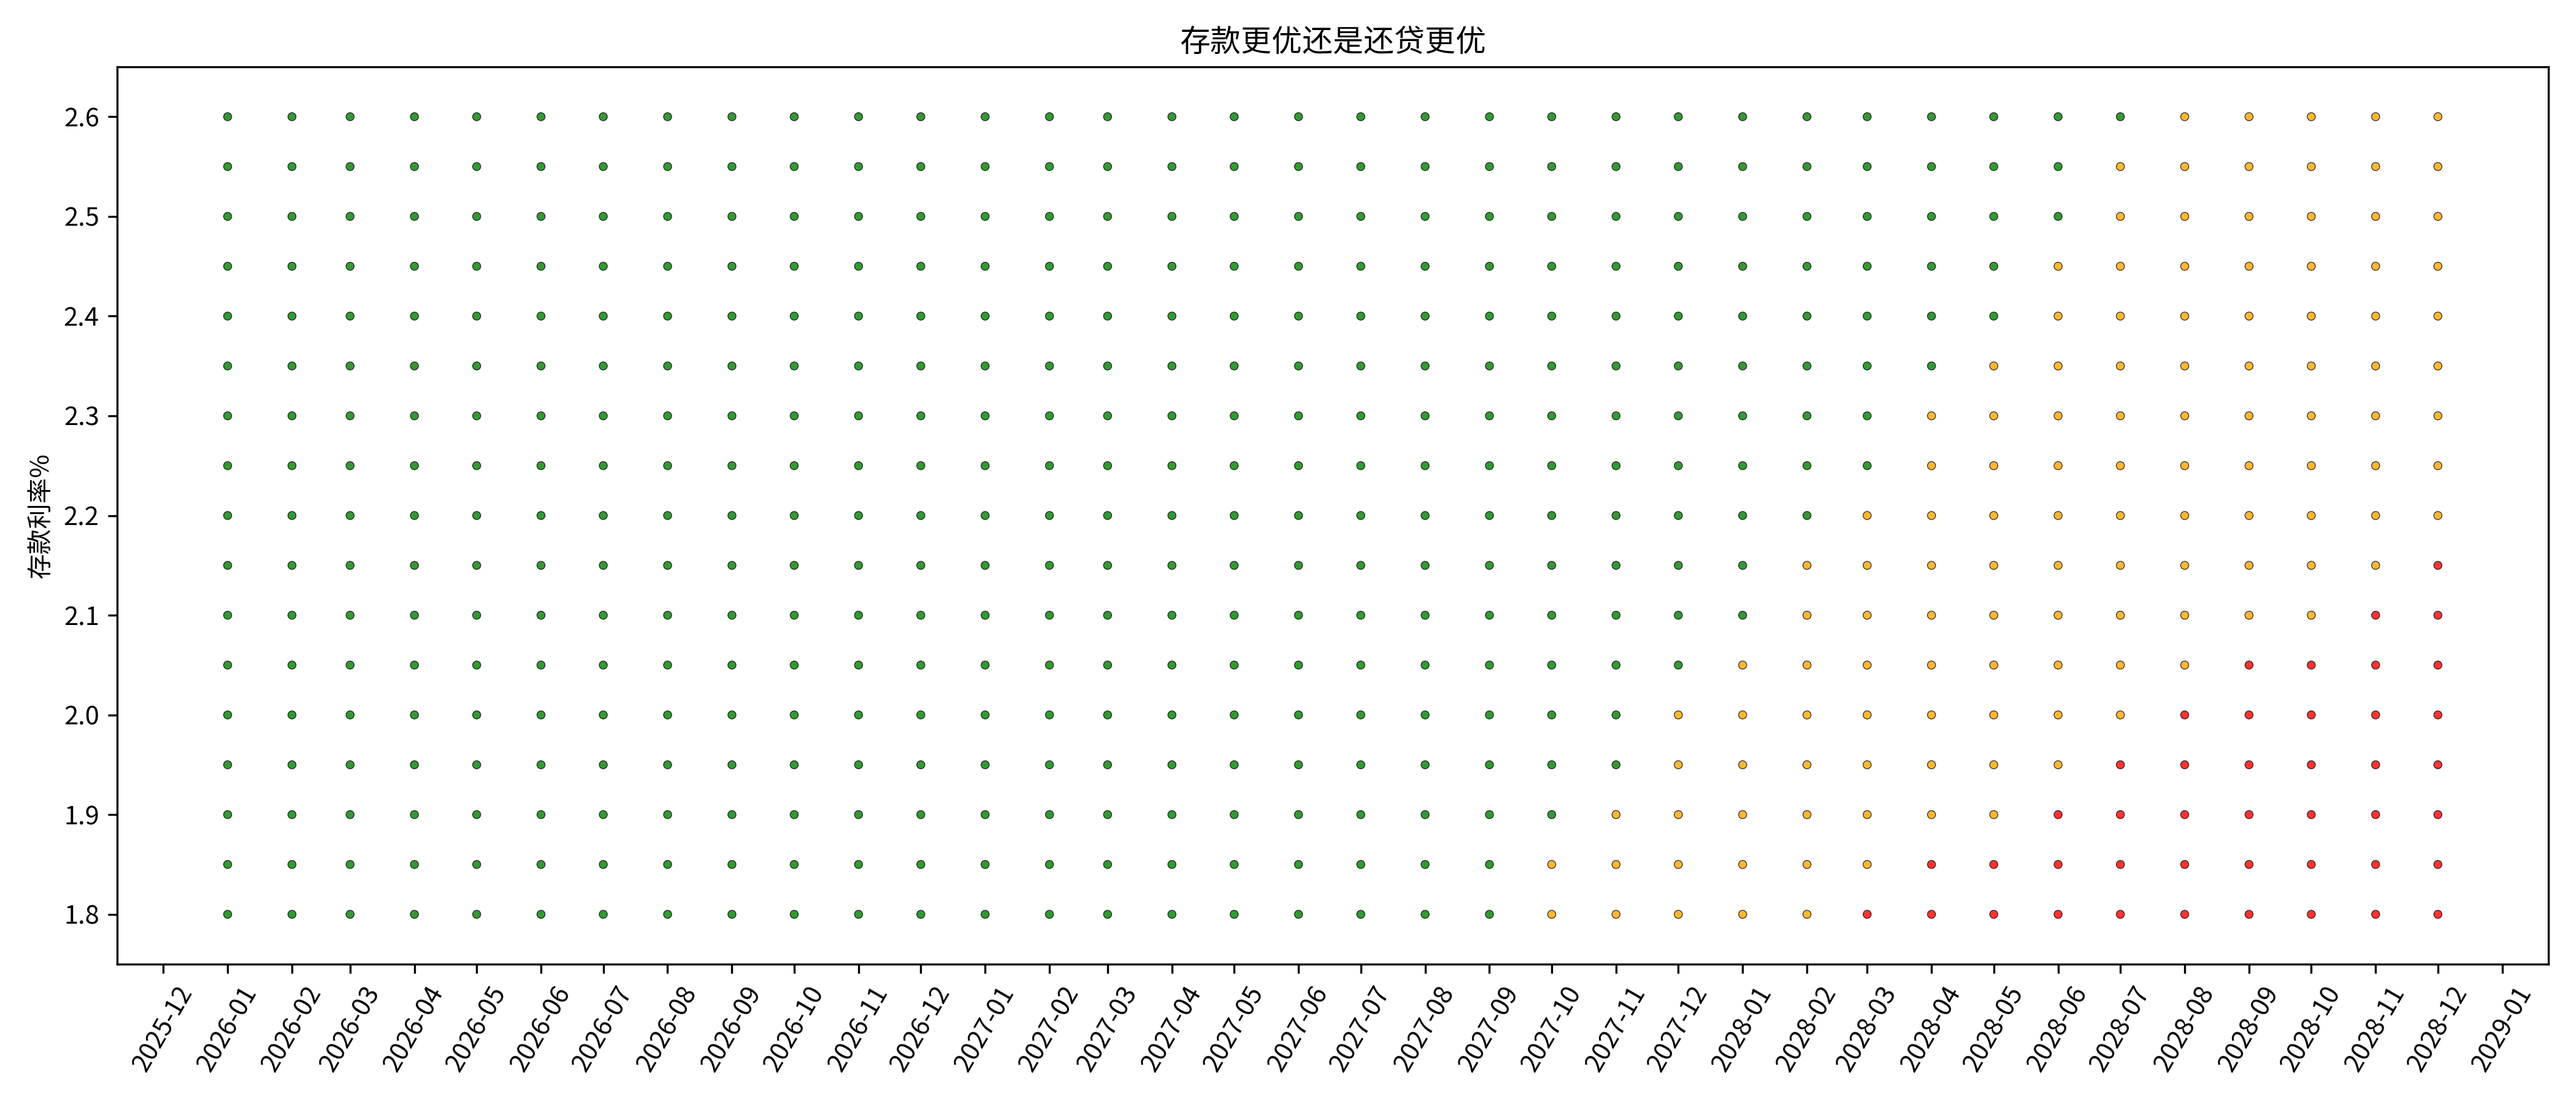
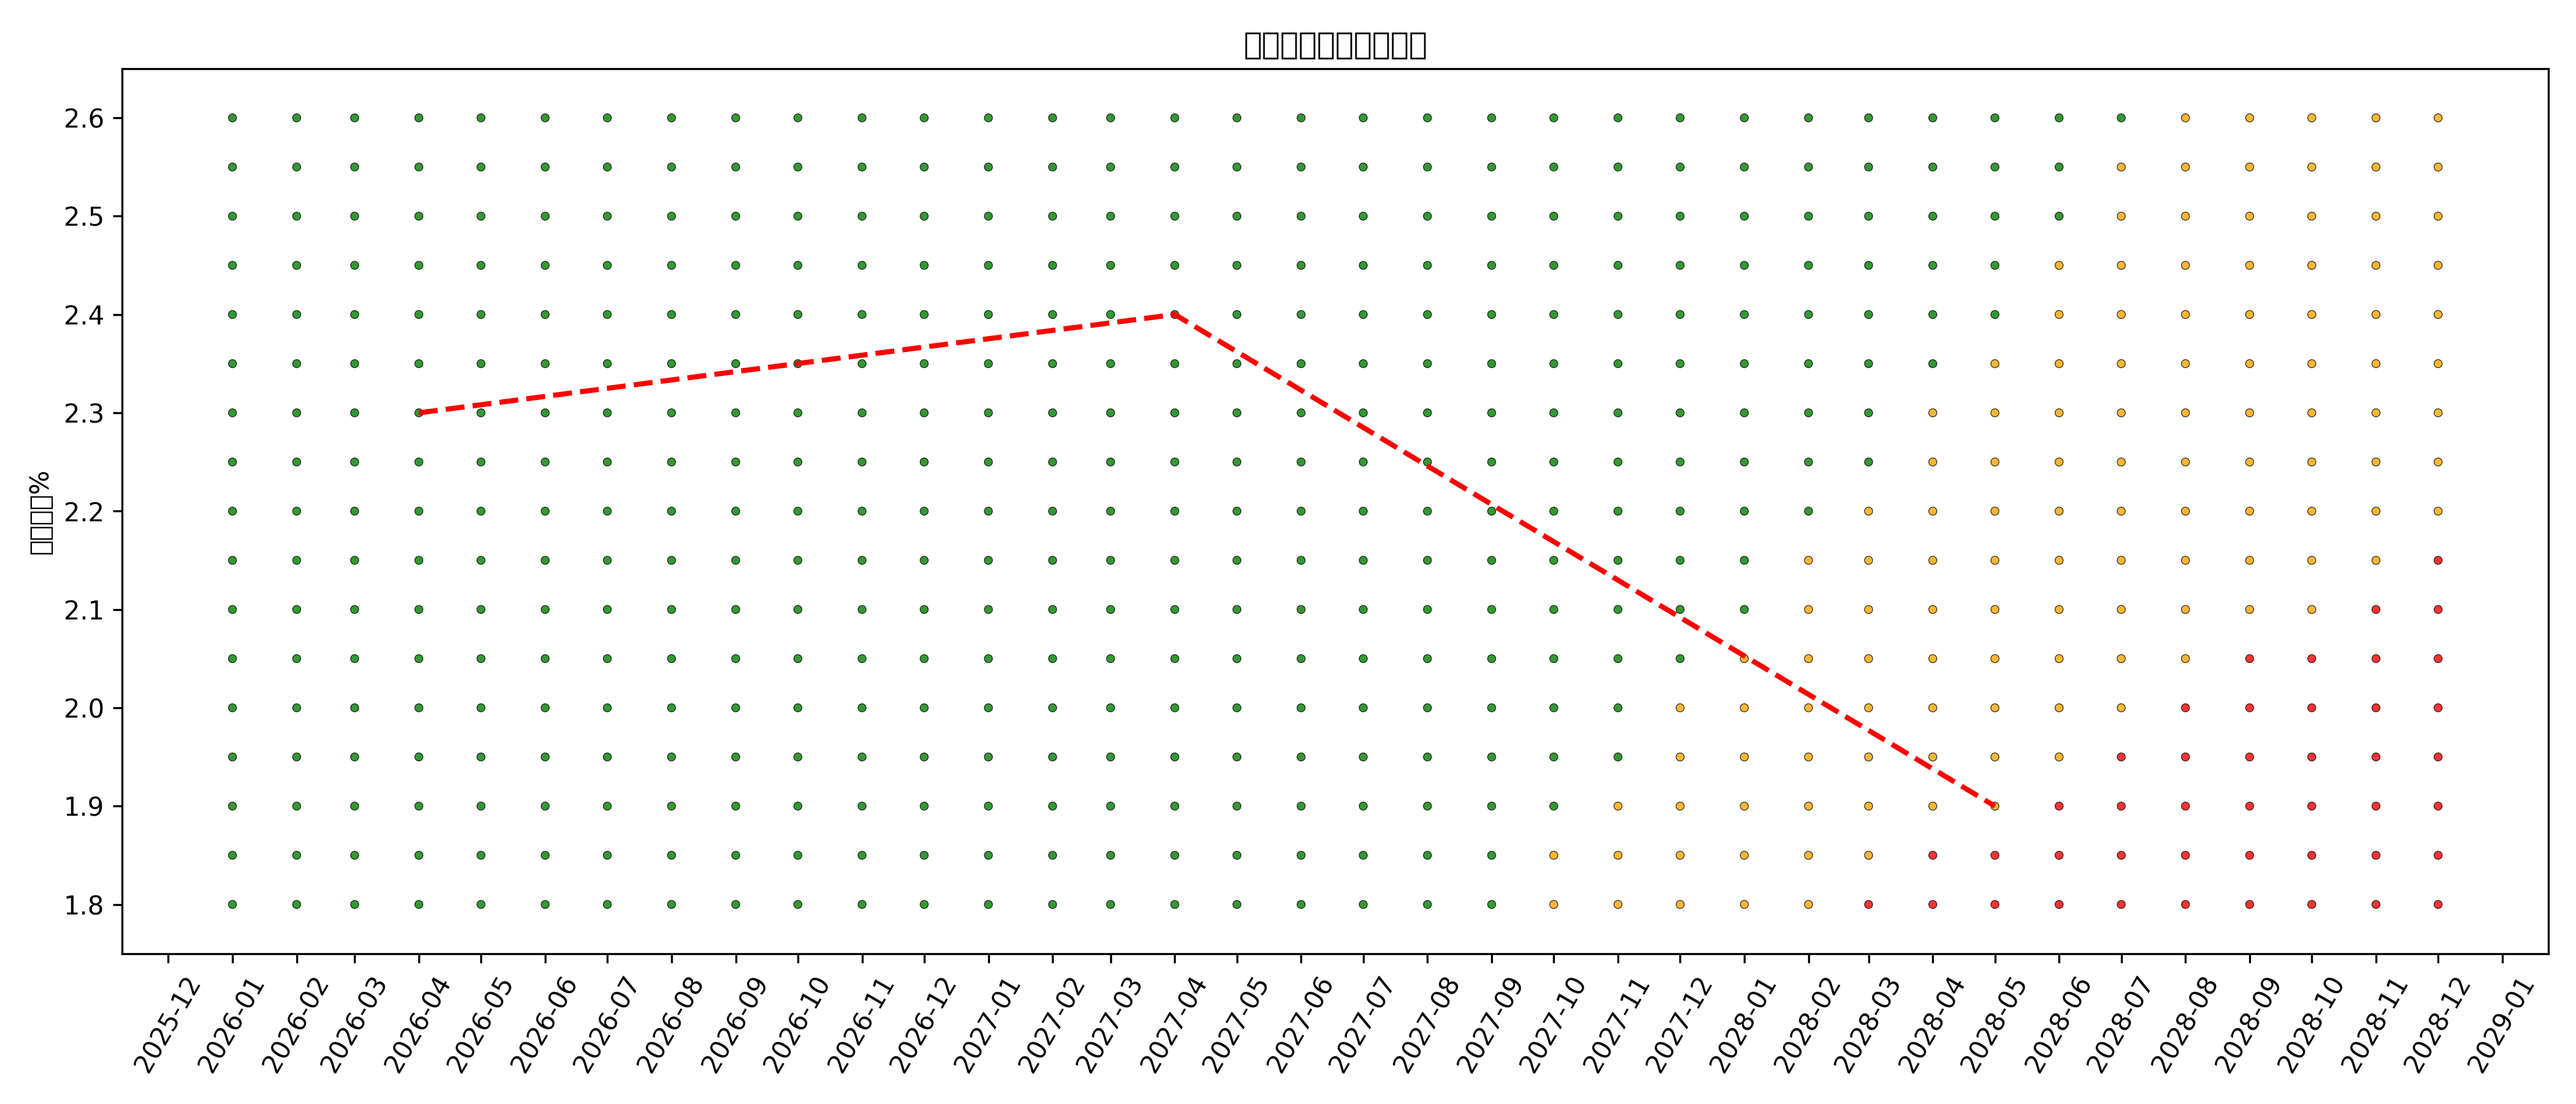
upda

diff --git a/文档校正程序/calc_rate.py b/文档校正程序/calc_rate.py
@@ -118,19 +118,38 @@ def calc_method1(principal, r2, ys=3):
     r2 = r2 if r2<0.1 else r2/100.0
     return principal * r2 * ys
 
+def calc_month_n(month, r1, r2):
+    delta = (month+0.5)**2 - 72*month*r2/r1
+    if delta<0: return 37,'2029-01'
+    ms = month+0.5-math.sqrt(delta)
+    if ms>=37: return 37,'2029-01'
+    # elif ms>=36: return 35.9, '2028-12'
+    y = int((ms-1)/12); m = int(ms-y*12)
+    return ms, f'{2026+y}-{m}'
+
+from datetime import datetime
+
+def decimal_month_to_datetime(decimal_month):
+    """将小数格式月份转换为datetime，如2026.25 → 2026-03-01"""
+    year = int(decimal_month)
+    month_fraction = decimal_month - year
+    month = int(month_fraction * 12) + 1
+    month = min(max(month, 1), 12)  # 限制在1-12月
+    return datetime(year, month, 1)
 
 def plt_ratio():
     principal_amount = 10*10000  # Loan amount
     pay_interest_rate = 3 / 100.0  # 5% annual interest
     # repayment_months = 12*all_years  # 1 year
 
-    font_path = "/usr/share/fonts/opentype/noto/NotoSansCJK-Regular.ttc"
-    font = font_manager.FontProperties(fname=font_path)
+    # font_path = "/usr/share/fonts/opentype/noto/NotoSansCJK-Regular.ttc"
+    # font = font_manager.FontProperties(fname=font_path)
 
-    rcParams["font.family"] = font.get_name()
-    rcParams["axes.unicode_minus"] = False  # 解决负号显示为方块的问题
+    # rcParams["font.family"] = font.get_name()
+    # rcParams["axes.unicode_minus"] = False  # 解决负号显示为方块的问题
 
     month_lst = [f"{y}-{m:02d}" for y in range(2026,2029) for m in range(1,13)]
+    month_num = np.array(list(range(1, len(month_lst)+1)))
     rate_lst = [x/100 for x in range(180, 265, 5)]
     data = [(m, r, calc_method1(principal_amount, r, 3)/calc_method2(principal_amount, 3.0, m, 5*12, 'bj')[-1]) for m in month_lst for r in rate_lst]
     data2 = [(m, r, calc_method1(principal_amount, r, 3)/calc_method2(principal_amount, pay_interest_rate, m, 30*12, 'bj')[-1]) for m in month_lst for r in rate_lst]
@@ -138,6 +157,7 @@ def plt_ratio():
     df = pd.DataFrame(data, columns=['month', 'rate', 'ratio'])
     df = df.sort_values('month')          # 保证时间序
     df.month = pd.to_datetime(df['month'], format='%Y-%m')
+    df.id_num = month_num
 
     df2 = pd.DataFrame(data2, columns=['month', 'rate', 'ratio'])
     df2 = df2.sort_values('month')          # 保证时间序
@@ -158,21 +178,23 @@ def plt_ratio():
 
     # 3. 大小：与 |ratio-1| 成反比，远离 1 越大，接近 1 越小
     # 先算距离，再加个极小值防止除零，最后放大到合适像素区间
-    dist = np.array([1/x if x<1 else x  for x in df.ratio])
+    # dist = np.array([1/x if x<1 else x  for x in df.ratio])
     sizes = 10          # 300 可随意调，越大点越大
     # print(sizes)
 
     # 4. 画图
     plt.figure(figsize=(14, 6))
     # plt.scatter(df2.month, df2.rate, c=colors2, s=sizes, alpha=0.8, edgecolors='k', linewidth=0.3)
+    # print(df.rate)
     plt.scatter(df.month, df.rate, c=colors, s=sizes, alpha=0.8, edgecolors='k', linewidth=0.3)
-
     # 参考线
     plt.axhline(y=1, color='gray', linestyle='--', linewidth=0.8)
 
     # 5. 格式
     plt.gca().xaxis.set_major_formatter(mdates.DateFormatter('%Y-%m'))
     plt.gca().xaxis.set_major_locator(mdates.MonthLocator(interval=1))
+    # plt.gca().xaxis.set_xticks(month_num)
+    # plt.gca().xaxis.set_xticklabels(month_lst)
     plt.ylim(1.75, 2.65)
     plt.xticks(rotation=60)
     plt.ylabel('存款利率%')
@@ -181,6 +203,26 @@ def plt_ratio():
 
     plt.savefig('ratio_dots.png', dpi=300)
     # plt.show()
+
+def plt_rlines():
+    Ms = [(30*12, 3), (5*12, 3), (5*12, 2.8)]
+    colors = ['orange', 'red', 'pink']
+    month_lst = [f"{y}-{m:02d}" for y in range(26,29) for m in range(1,13)]
+    for m, c in zip(Ms, colors):
+        l1 = [(calc_month_n(m[0], m[1], r2/100)[0], r2/100) for r2 in range(180,266)]
+        lx, ly = [u[0] for u in l1], [u[1] for u in l1]
+        plt.plot(lx, ly, color=c, linewidth=2, label='折线')
+    plt.gca().set_xticks(list(range(2, len(month_lst)+2)))
+    plt.gca().set_xticklabels(month_lst)
+    plt.ylim(1.75, 2.65)
+    plt.xticks(rotation=60)
+    plt.grid(visible=True, which='major', axis='both', 
+            color='silver', linestyle='--', linewidth=0.8, alpha=0.5)
+    plt.minorticks_on()
+    plt.grid(visible=True, which='minor', axis='y', 
+            color='gainsboro', linestyle=':', linewidth=0.4, alpha=0.8)
+    plt.tight_layout()
+    plt.show()
     
 if __name__ == "__main__":
     # Example usage
@@ -190,4 +232,6 @@ if __name__ == "__main__":
     repayment_months = 12*5  # 1 year
 
     # print(calc_method2(principal_amount, pay_interest_rate, '2028-08', repayment_months, 'bj'), calc_method1(principal_amount, save_interest_rate))
-    plt_ratio()
+    # plt_ratio()
+    # print(calc_month_n(360, 3, 2.15))
+    plt_rlines()
